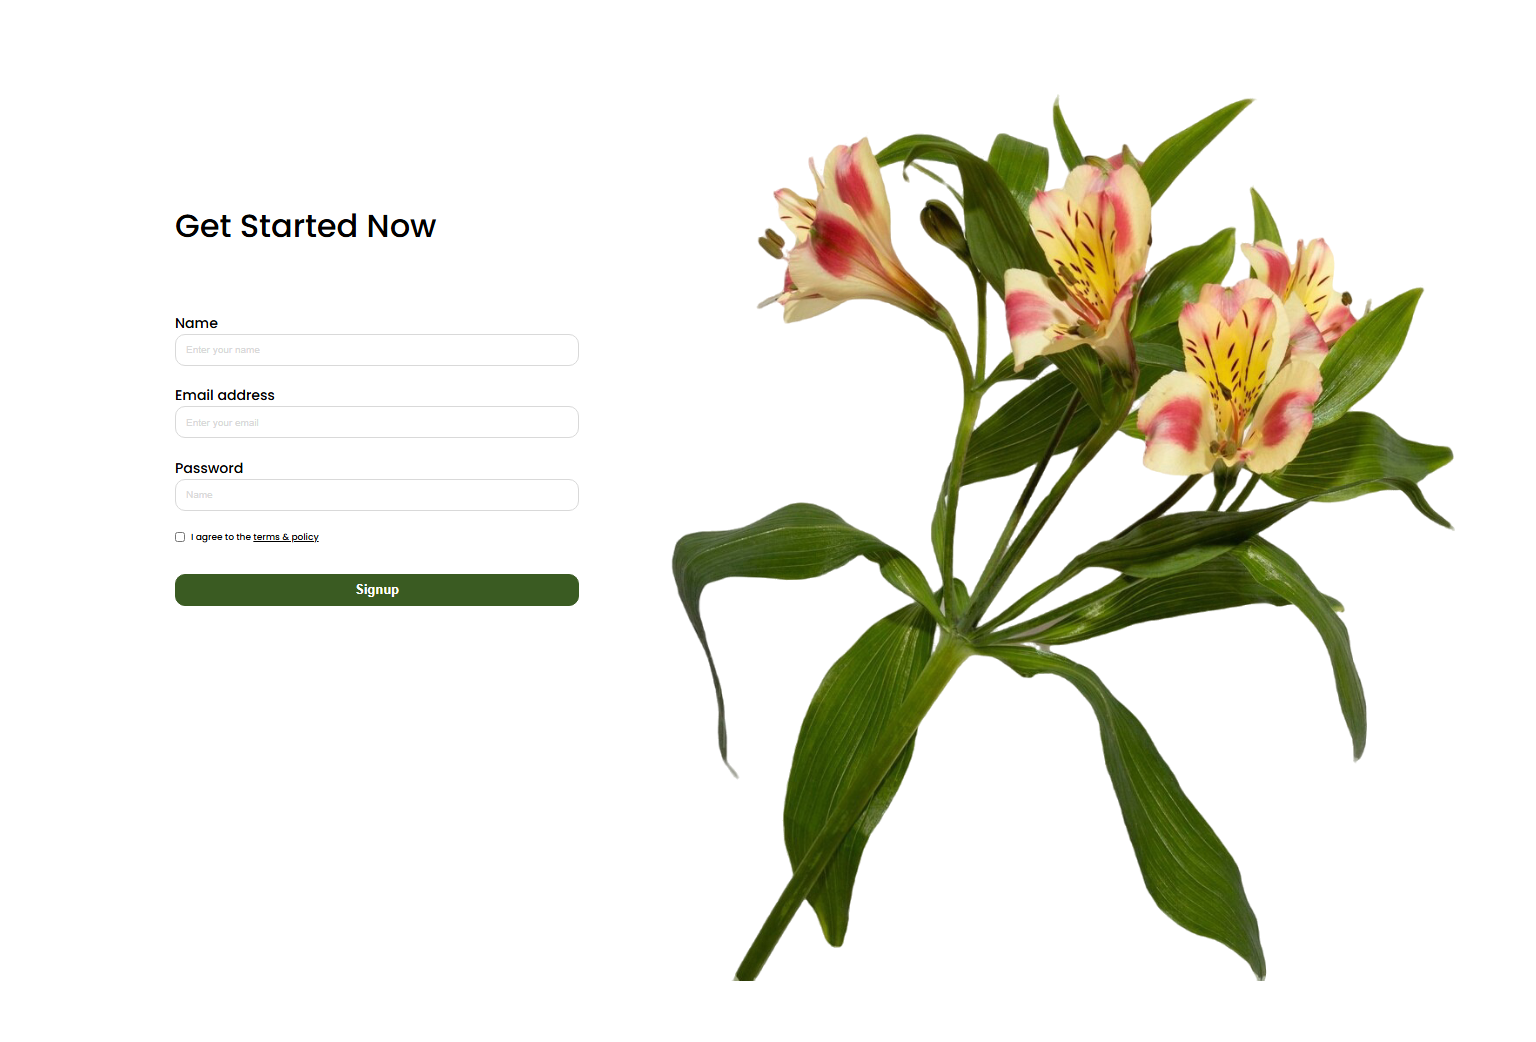
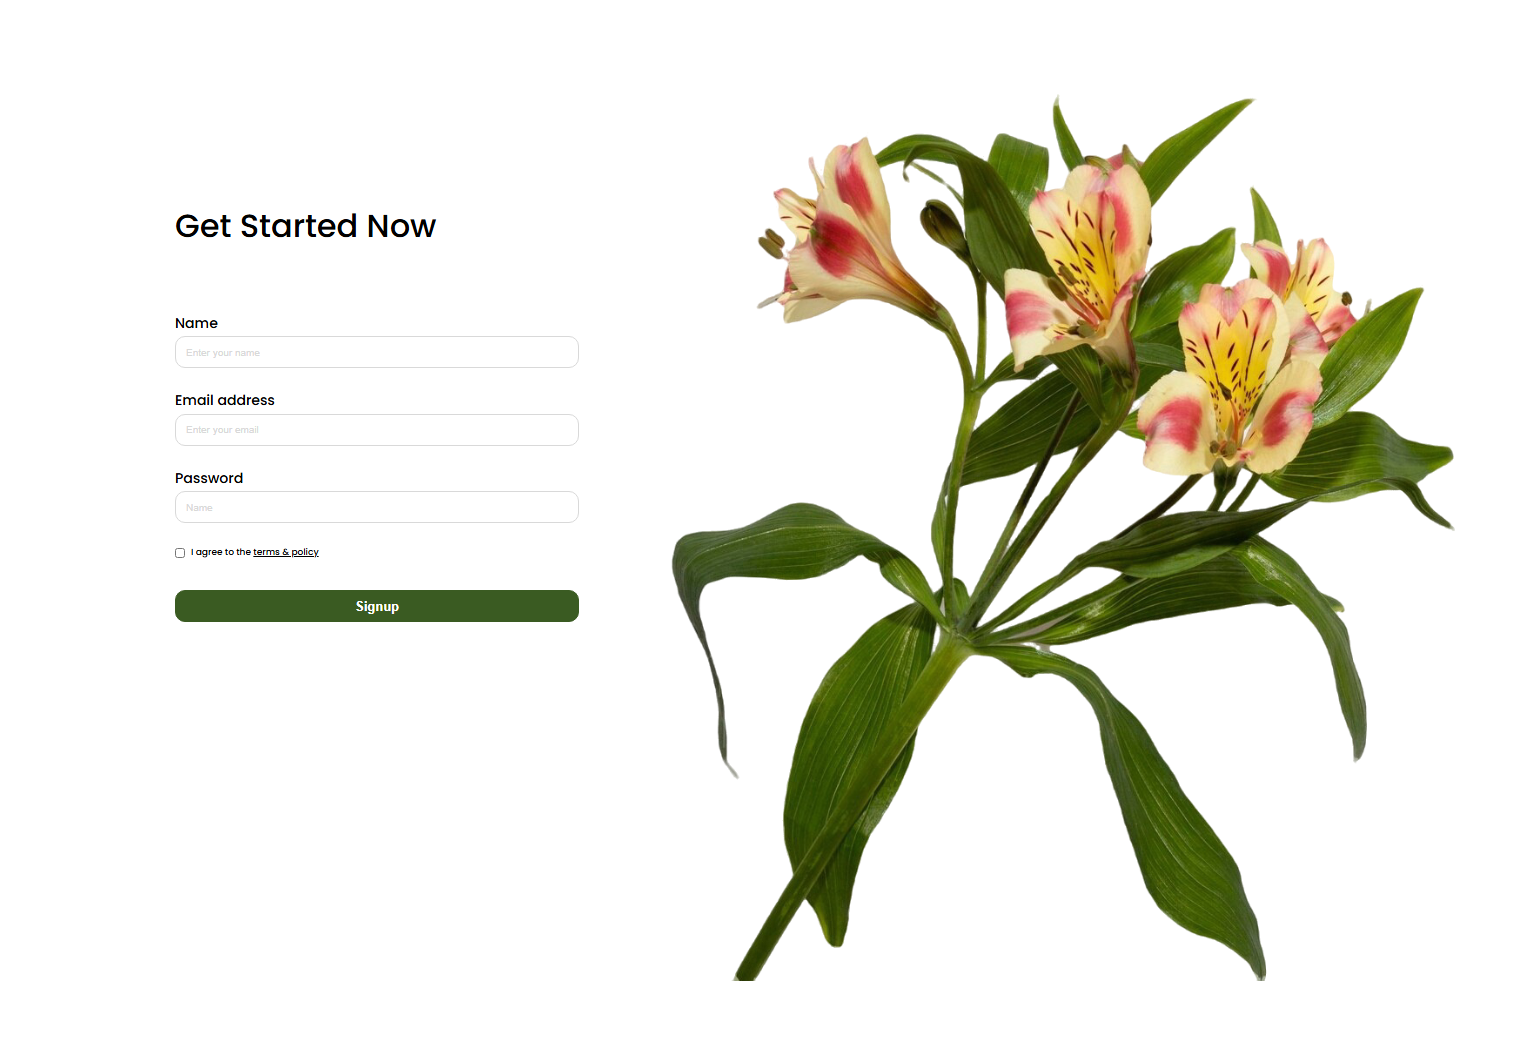
Add divider and social sign-in buttons.

Changed region(s): [[0.0938, 0.3071, 0.375, 0.6142]]

diff --git a/src/components/SignUp/SignUp.module.css b/src/components/SignUp/SignUp.module.css
@@ -38,6 +38,7 @@
 
 .fields label {
   display: grid;
+  height: 58px;
 }
 
 .fields label > span {
@@ -75,6 +76,7 @@
   align-items: center;
   gap: 6px;
   width: max-content;
+  height: 15.32px;
   margin-top: 19.7px;
   font-size: 9px;
   font-weight: 500;
@@ -95,7 +97,7 @@
 .signupButton {
   width: 100%;
   height: 32px;
-  margin-top: 29.5px;
+  margin-top: 29.55px;
   color: #fff;
   font-size: 13px;
   font-weight: 700;
@@ -111,9 +113,81 @@
 }
 
 .signupButton:focus-visible,
+.socialButtons button:focus-visible,
+.signInPrompt a:focus-visible,
 .terms a:focus-visible {
   outline: 2px solid #3a5b22;
   outline-offset: 2px;
+}
+
+.divider {
+  position: relative;
+  display: flex;
+  align-items: center;
+  justify-content: center;
+  height: 15.32px;
+  margin-top: 62.1px;
+  font-size: 9px;
+  font-weight: 500;
+  line-height: 13.5px;
+}
+
+.divider::before {
+  position: absolute;
+  inset: 50% 0 auto;
+  height: 2px;
+  content: '';
+  background: #f5f5f5;
+  transform: translateY(-50%);
+}
+
+.divider span {
+  position: relative;
+  padding: 0 4.5px;
+  background: #fff;
+}
+
+.socialButtons {
+  display: grid;
+  grid-template-columns: repeat(2, 190px);
+  gap: 23px;
+  margin-top: 60px;
+}
+
+.socialButtons button {
+  display: flex;
+  align-items: center;
+  justify-content: center;
+  gap: 10px;
+  height: 32px;
+  padding: 4px 20px;
+  color: #000;
+  font-size: 12px;
+  font-weight: 500;
+  line-height: 18px;
+  white-space: nowrap;
+  cursor: pointer;
+  background: #fff;
+  border: 1px solid #d9d9d9;
+  border-radius: 10px;
+}
+
+.socialButtons img {
+  width: 24px;
+  height: 24px;
+}
+
+.signInPrompt {
+  margin: 25px 0 0;
+  font-size: 14px;
+  font-weight: 500;
+  line-height: 21px;
+  text-align: center;
+}
+
+.signInPrompt a {
+  color: #0c2991;
+  text-decoration: none;
 }
 
 .rightSection {
@@ -170,5 +244,20 @@
 
   .rightSection img {
     max-height: 100svh;
+  }
+}
+
+@media (max-width: 460px) {
+  .formContent h1 {
+    font-size: 28px;
+  }
+
+  .socialButtons {
+    grid-template-columns: 1fr;
+    gap: 12px;
+  }
+
+  .socialButtons button {
+    width: 100%;
   }
 }

diff --git a/src/components/SignUp/SignUp.jsx b/src/components/SignUp/SignUp.jsx
@@ -1,4 +1,6 @@
+import appleLogo from '../../assets/icons-apple-logo.svg'
 import flowerImage from '../../assets/blossom-flower.svg'
+import googleLogo from '../../assets/icons-google-logo.svg'
 import styles from './SignUp.module.css'
 
 function SignUp() {
@@ -50,6 +52,25 @@ function SignUp() {
           <button className={styles.signupButton} type="button">
             Signup
           </button>
+
+          <div className={styles.divider} aria-hidden="true">
+            <span>Or</span>
+          </div>
+
+          <div className={styles.socialButtons}>
+            <button type="button">
+              <img src={googleLogo} alt="" />
+              <span>Sign in with Google</span>
+            </button>
+            <button type="button">
+              <img src={appleLogo} alt="" />
+              <span>Sign in with Apple</span>
+            </button>
+          </div>
+
+          <p className={styles.signInPrompt}>
+            Have an account? <a href="#sign-in">Sign In</a>
+          </p>
         </form>
       </section>
       <section className={styles.rightSection}>
